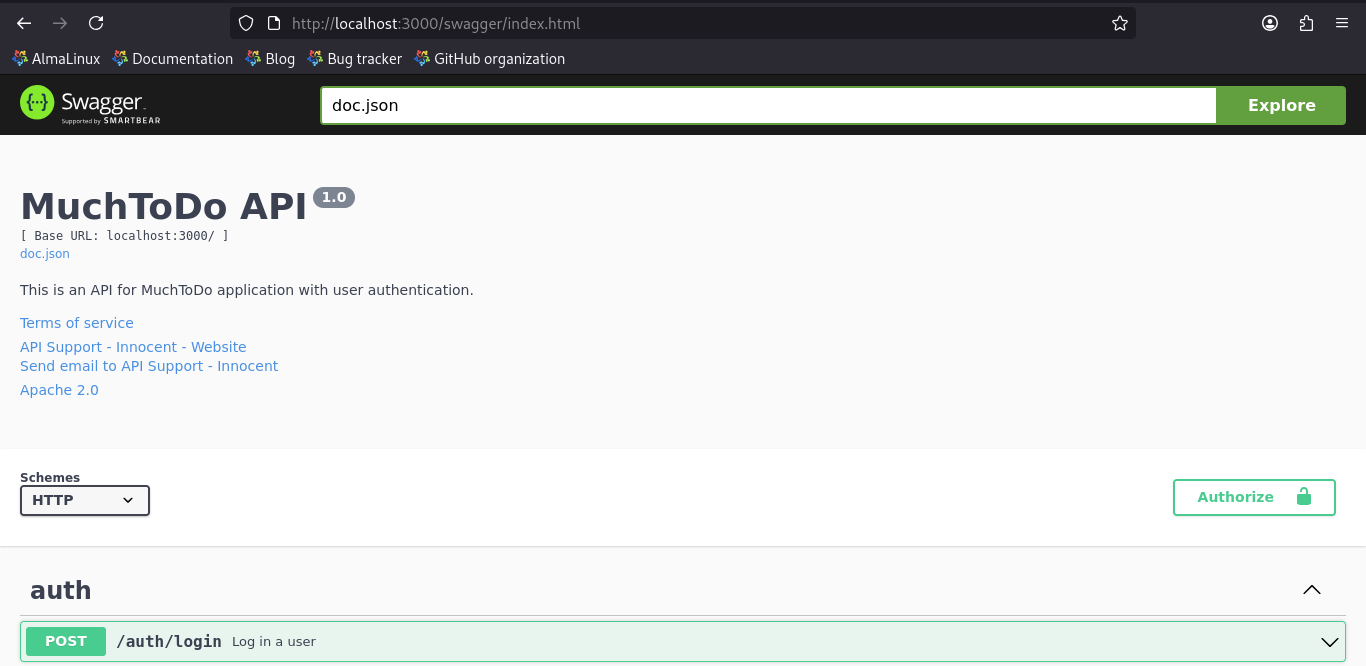
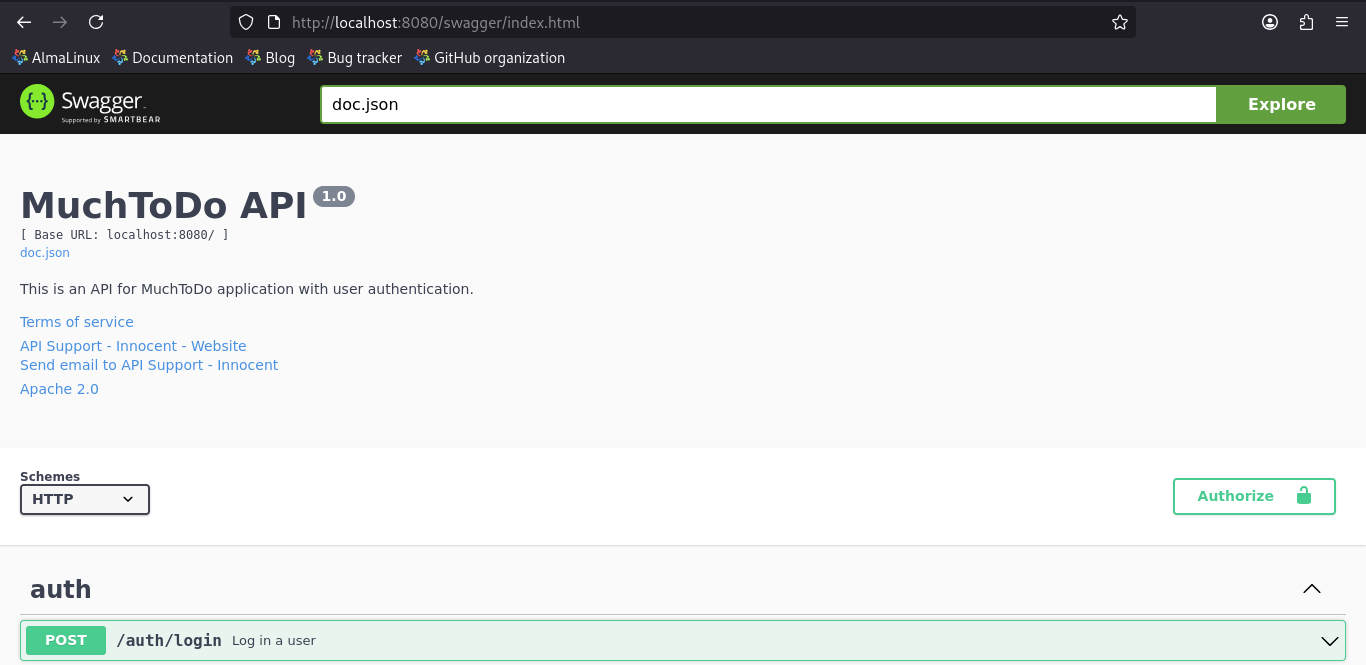
chmod: Task completed

diff --git a/README.md b/README.md
@@ -130,7 +130,7 @@ chmod +x scripts/k8s-cleanup.sh
 
 ---
 
-## Troubleshooting
+## 🔬 Troubleshooting
 
 - Error encountered while installling ingress controller, was resolved by changing ISP provider
 
@@ -162,7 +162,7 @@ Screenshots of the successful deployment can be found in the /evidence directory
 
   ![snapshot](./evidence/docker-run.png)
 
-- Application responding via docker-compose.
+- Application responding via docker-compose (http://localhost:8080/swagger/index.html).
 
   ![snapshot](./evidence/docker-app.png)
 
@@ -172,14 +172,16 @@ Screenshots of the successful deployment can be found in the /evidence directory
 
 - Kubernetes deployments running
 
-  ![snapshot](./evidence/)
+  ![snapshot](./evidence/deployment-a.png)
+  ![snapshot](./evidence/deployment-b.png)
+  ![snapshot](./evidence/deployment-c.png)
 
-- Application accessible through a NodePort Service type to the host or Kubernetes ingress.
+- Application accessible through a NodePort Service type to the host or Kubernetes ingress (http://localhost/swagger/index.html).
 
-  ![snapshot](./evidence/)
+  ![snapshot](./evidence/kublets-app.png)
 
 - Kubectl commands showing pod status, services, and ingress.
 
-  ![snapshot](./evidence/kublets-app.png)
+  ![snapshot](./evidence/status.png)
 
 ---
